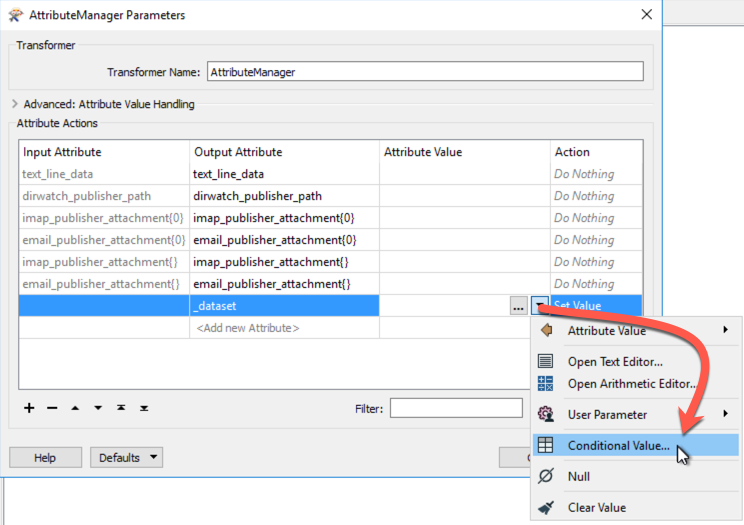
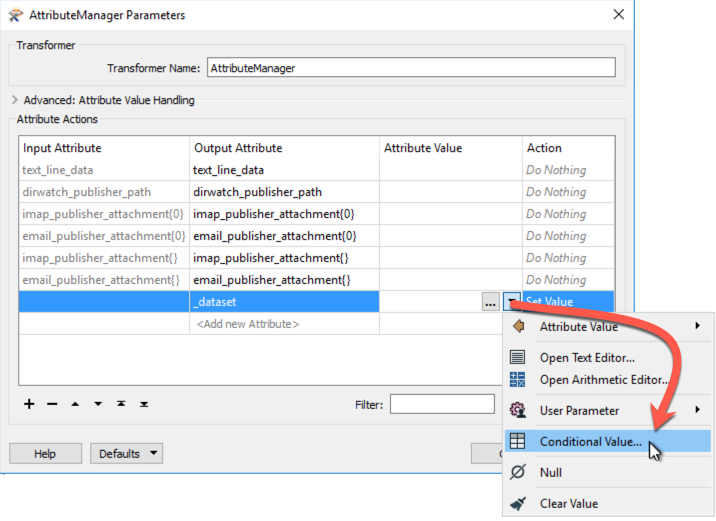
2017 Chapter 4 Exercise 4 Edits

Changed region(s): [[0.0, 0.0, 1.0, 1.0], [0.0, 0.0, 0.2458, 0.0921], [0.7067, 0.952, 0.8603, 0.9827]]

diff --git a/ServerAuthoring4RealTime/Exercise4.md b/ServerAuthoring4RealTime/Exercise4.md
@@ -7,7 +7,7 @@
 <tr>
 <td width=25% style="vertical-align:middle;background-color:darkorange;border: 2px solid darkorange">
 <i class="fa fa-cogs fa-lg fa-pull-left fa-fw" style="color:white;padding-right: 12px;vertical-align:text-top"></i>
-<span style="color:white;font-size:x-large;font-weight: bold">Exercise 4 (Advanced)</span>
+<span style="color:white;font-size:x-large;font-weight: bold">Exercise 4</span>
 </td>
 <td style="border: 2px solid darkorange;background-color:darkorange;color:white">
 <span style="color:white;font-size:x-large;font-weight: bold">Building Updates Notification System</span>
@@ -106,9 +106,9 @@ In case it is of use, the server information for Gmail, Outlook, and Yahoo! are 
 
 <tr>
 <td style="font-weight: bold">Connection Security</td>
-<td style="">SSL</td>
-<td style="">SSL</td>
-<td style="">SSL</td>
+<td style="">SSL/TLS</td>
+<td style="">SSL/TLS</td>
+<td style="">SSL/TLS</td>
 </tr>
 
 <tr>
@@ -122,10 +122,32 @@ In case it is of use, the server information for Gmail, Outlook, and Yahoo! are 
 
 You will also need to check the settings in your email account to make sure IMAP is turned on. Regardless of the email provider, you should set these parameters as follows:
 
-- Poll Interval: 1 minute
-- Emails to Fetch: New Emails Only.
+<table style="border: 0px">
 
-Select a Resource Folder for attachments to be saved to and click OK to close the dialog and create the new Publication.
+<tr>
+<th style="font-weight: bold">Parameter</th>
+<th style="">Value</th>
+</tr>
+
+<tr>
+<td style="font-weight: bold">Poll Interval</td>
+<td style="">1 Minute</td>
+</tr>
+
+<tr>
+<td style="font-weight: bold">Emails to Fetch</td>
+<td style="">New Emails Only</td>
+</tr>
+
+<tr>
+<td style="font-weight: bold">Download Attachments To</td>
+<td style="">A Resource folder of your choice</td>
+</tr>
+
+</table>
+
+
+You may select any Resource folder for attachments to be saved to; but (if you have already completed exercise 1-3) don't choose the BuildingUpdates folder, else you'll cause the previous topics to be triggered by each email attachment!
 
 
 <br>**2) Test Publication**
@@ -137,7 +159,7 @@ Now send an email *with an attachment* to the address selected for the new publi
 
 ![](./Images/Img4.420.Ex4.MonitorTopicResult.png)
 
-Recall that in the previous exercise you used the Logger Protocol and Logger transformers to record the JSON formatted notification message. The same information is displayed in the Topic Monitoring window - copy this text and place it into a new file for use later in this exercise.
+Recall that in the previous exercise you used the Logger Protocol and Logger transformers to record the JSON formatted notification message. The same information is displayed in the Topic Monitoring window. So copy the text from the Topic Monitoring window and paste it into a text editor for use later in this exercise.
 
 ![](./Images/Img4.421.Ex4.JSONNotificationMessage.png)
 
@@ -145,7 +167,7 @@ Recall that in the previous exercise you used the Logger Protocol and Logger tra
 <br>**3) Update Workspace**
 <br>You already have a created a workspace in FME Workbench to handle incoming notifications from Directory Watch. Let's modify the workflow so that it can work with both Publication protocols. Open the existing workspace C:\FMEData2017\Workspaces\ServerAuthoring\RealTime-Ex4-Begin.fmw in FME Workbench.
 
-Open the JSONFlattener parameters, and add *imap_publisher_attachment{0}* and *email_publisher_attachment{0}* under Attributes to Expose:
+Open the JSONFlattener parameters, and add *imap&#95;publisher&#95;attachment{0}* and *email&#95;publisher&#95;attachment{0}* under Attributes to Expose:
 
 ![](./Images/Img4.422.Ex4.JSONFlattenerParameters.png)
 
@@ -164,7 +186,7 @@ You can see these are two of the available attributes that are returned by the T
 <tr>
 <td style="border: 1px solid darkorange">
 <span style="font-family:serif; font-style:italic; font-size:larger">
-Adding both imap_publisher_attachment and email_publisher_attachment modifies this workspace so that it can work with both Email (SMTP) and Email (IMAP) Publications!
+Adding both imap&#95;publisher&#95;attachment and email&#95;publisher&#95;attachment modifies this workspace so that it can work with both Email (SMTP) and Email (IMAP) Publications!
 </span>
 </td>
 </tr>
@@ -174,9 +196,9 @@ Adding both imap_publisher_attachment and email_publisher_attachment modifies th
 <br>**4) Add AttributeManager**
 <br>The next step is to insert a transformer that will determine where the data is coming from (Directory Watch or an Email Publication) - this is a task where conditional statements are invaluable.
 
-Add an AttributeManager transformer in between the JSONFlattener and FeatureReader. Open the parameters and add *_dataset* as a new Output Attribute. 
+Add an AttributeManager transformer in between the JSONFlattener and FeatureReader. Open the parameters and add *&#95;dataset* as a new Output Attribute. 
 
-Set the Attribute Value as a Conditional Value:
+Select, from the drop-down menu, the option to set the attribute as a Conditional Value:
 
 ![](./Images/Img4.423.Ex4.AttributeManagerParameters.png)
 
@@ -184,9 +206,45 @@ Configure the Conditional Value as follows:
 
 ![](./Images/Img4.424.Ex4.ConditionalDefinition.png)
 
+<table style="border: 0px">
+
+<tr>
+<th style="">Attribute</th>
+<th style="">Test</th>
+<th style="">Set &#95;dataset To</th>
+</tr>
+
+<tr>
+<td style="">dirwatch&#95;publisher&#95;path</td>
+<td style="">Attribute has a value</td>
+<td style="">dirwatch&#95;publisher&#95;path</td>
+</tr>
+
+<tr>
+<td style="">email&#95;publisher&#95;attachment{0}</td>
+<td style="">Attribute has a value</td>
+<td style="">email&#95;publisher&#95;attachment{0}</td>
+</tr>
+
+<tr>
+<td style="">imap&#95;publisher&#95;attachment{0}</td>
+<td style="">Attribute has a value</td>
+<td style="">imap&#95;publisher&#95;attachment{0}</td>
+</tr>
+
+</table>
+
+In other words:
+
+- If *dirwatch&#95;publisher&#95;path* has a value, then copy that value into the *&#95;dataset* attribute. 
+- Else, if *email&#95;publisher&#95;attachment{0}* has a value, then copy that value into the *&#95;dataset* attribute. 
+- Else, if *imap&#95;publisher&#95;attachment{0}* has a value, then copy that value into the *&#95;dataset* attribute. 
+
+So *&#95;dataset* gets the location of the data to be processed, whether it comes from the directory watch notification, or an email notification of either type.
+
 
 <br>**5) Edit FeatureReader**
-<br>The final step is to change the Dataset in the FeatureReader to point at the new _dataset attribute:
+<br>The final step is to change the Dataset parameter in the FeatureReader transformer. Instead of pointing to dirwatch&#95;publisher&#95;path, it should be changed to point at the new &#95;dataset attribute:
 
 ![](./Images/Img4.425.Ex4.FeatureReaderParameters.png)
 
@@ -198,7 +256,9 @@ The workflow should now look like this:
 <br>**6) Edit User Parameter** 
 <br>As with Exercise 3, specify the output datatset to be written into the FME Server Resources Folder.
 
-Open the DestDataset_SPATIALITE User Parameter and enter *$(FME_SHAREDRESOURCE_DATA)\/Output\/building_footprints.sl3*:
+Locate the user parameter DestDataset&#95;SPATIALITE (under User Parameters &gt; Published Parameters in the Navigator window) and double-click it to open an editor dialog.
+
+In that dialog enter *$(FME&#95;SHAREDRESOURCE&#95;DATA)/Output/building&#95;footprints.sl3*
 
 ![](./Images/Img4.431.Ex4.DestinationDatasetUserParameter.png)
 
@@ -218,7 +278,7 @@ Click the "Edit" button and set *ShapeIncomingEmail* for the "Subscribe to Topic
 <br>**9) Test Workspace**
 <br>Test the workspace by sending an email to the Publication email address. Be sure to attach a zip file of the Shapefile datasets (.dbf, .prj, .shp, .shx) from C:\FMEData2017\Data\Engineering\BuildingFootprints to the email.
 
-You can verify if the workflow was successful by checking the Completed Jobs page and the timestamp of the SpatiaLite database in Resources > Output in the FME Server web interface.
+You can verify if the workflow was successful by checking the Completed Jobs page and the timestamp of the SpatiaLite database in Resources &gt; Data &gt; Output in the FME Server web interface.
 
 
 ---
